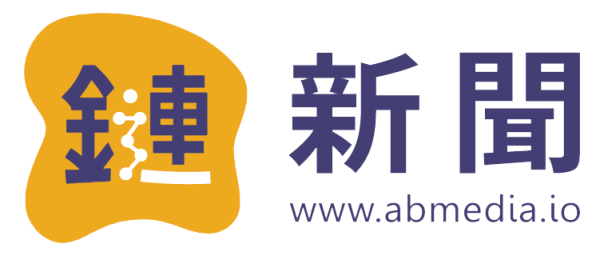
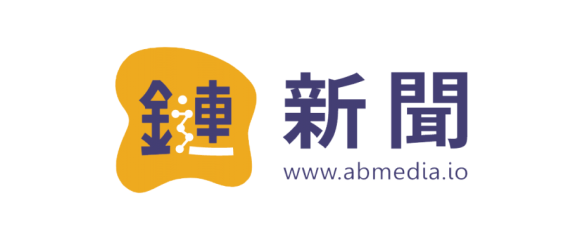
chore: add zomma and other partners (#59)
* chore: add zomma and other partners

* chore: update images of sponsors and partners

---------

diff --git a/public/constant/partners.ts b/public/constant/partners.ts
@@ -9,7 +9,10 @@ import {
   quantstampUrl,
   tpeUrl,
   grenadeUrl,
-  blockBoosterUrl
+  blockBoosterUrl,
+  blocktempoUrl,
+  abmediaUrl,
+  gen3Url,
 } from "./urls";
 
 import taikai from "@/public/images/taikai.png";
@@ -21,8 +24,11 @@ import lyra from "@/public/images/lyra.png";
 import perpetual from "@/public/images/perpetual.png";
 import quantstamp from "@/public/images/quantstamp.png";
 import tpe from "@/public/images/taipei-ethereum.png";
-import grenade from "@/public/images/grenade.webp";
+import grenade from "@/public/images/grenade.png";
+import abmedia from "@/public/images/abmedia.png";
+import blocktempo from "@/public/images/blockTempo.png";
 import blockBooster from "@/public/images/BlockBooster.png";
+import gen3 from "@/public/images/gen3.png";
 
 import { StaticImageData } from "next/image";
 
@@ -30,7 +36,7 @@ type PartnerProps = {
   name: string;
   url: string;
   logo: StaticImageData;
-  maxHeight?: number
+  maxHeight?: number;
 };
 
 const partners: PartnerProps[] = [
@@ -44,7 +50,10 @@ const partners: PartnerProps[] = [
   { name: "Taikai", url: taikaiUrl, logo: taikai, maxHeight: 90 },
   { name: "Taipei Ethereum Meetup", url: tpeUrl, logo: tpe },
   { name: "Unlock", url: unlockUrl, logo: unlock },
-  { name: 'Block Booster', url: blockBoosterUrl, logo: blockBooster },
+  { name: "Block Booster", url: blockBoosterUrl, logo: blockBooster },
+  { name: "鏈新聞", url: abmediaUrl, logo: abmedia, maxHeight: 80 },
+  { name: "動區", url: blocktempoUrl, logo: blocktempo },
+  { name: "Gen3", url: gen3Url, logo: gen3, maxHeight: 55 },
 ];
 
 export default partners;

diff --git a/public/constant/sponsors.ts b/public/constant/sponsors.ts
@@ -9,6 +9,7 @@ import {
   autopassUrl,
   termStructureUrl,
   seleneUrl,
+  zommaUrl,
 } from "./urls";
 
 import code4Rena from "@/public/images/code4Rena.png";
@@ -19,6 +20,7 @@ import termStructure from "@/public/images/termStructure.png";
 import selene from "@/public/images/selene.png";
 import perpetual from "@/public/images/perpetual.png";
 import quantstamp from "@/public/images/quantstamp.png";
+import zomma from "@/public/images/zomma.png";
 
 import { StaticImageData } from "next/image";
 
@@ -85,6 +87,13 @@ const bronzeSponsors: OrganizerProps[] = [
     url: perpetualUrl,
     logo: perpetual,
     width: 342,
+    height: 80,
+  },
+  {
+    name: "zomma",
+    url: zommaUrl,
+    logo: zomma,
+    width: 162,
     height: 80,
   },
 ];

diff --git a/public/constant/urls.ts b/public/constant/urls.ts
@@ -30,5 +30,7 @@ export const unlockUrl = "https://unlock-protocol.com/";
 export const grenadeUrl = "https://www.grenade.tw/";
 export const abmediaUrl = "https://abmedia.io/";
 export const blocktempoUrl = "https://www.blocktempo.com/";
+export const gen3Url = "https://www.gen3.network/";
 export const blockBoosterUrl = "https://twitter.com/0xBlockBooster";
 export const visaUrl = "https://www.boca.gov.tw/cp-149-4486-7785a-2.html";
+export const zommaUrl = 'https://zomma.pro/'

diff --git a/components/HomePage/Partners.tsx b/components/HomePage/Partners.tsx
@@ -17,7 +17,7 @@ const Partners = () => {
               key={partner.name}
               onClick={() => openNewTab(partner.url)}
             >
-              <Image src={partner.logo} fill={!partner.maxHeight} alt={partner.name} style={{ maxHeight: partner.maxHeight }} />
+              <Image src={partner.logo} fill alt={partner.name} />
             </SponsorBtn>
           ))}
         </SponsorsContainer>
